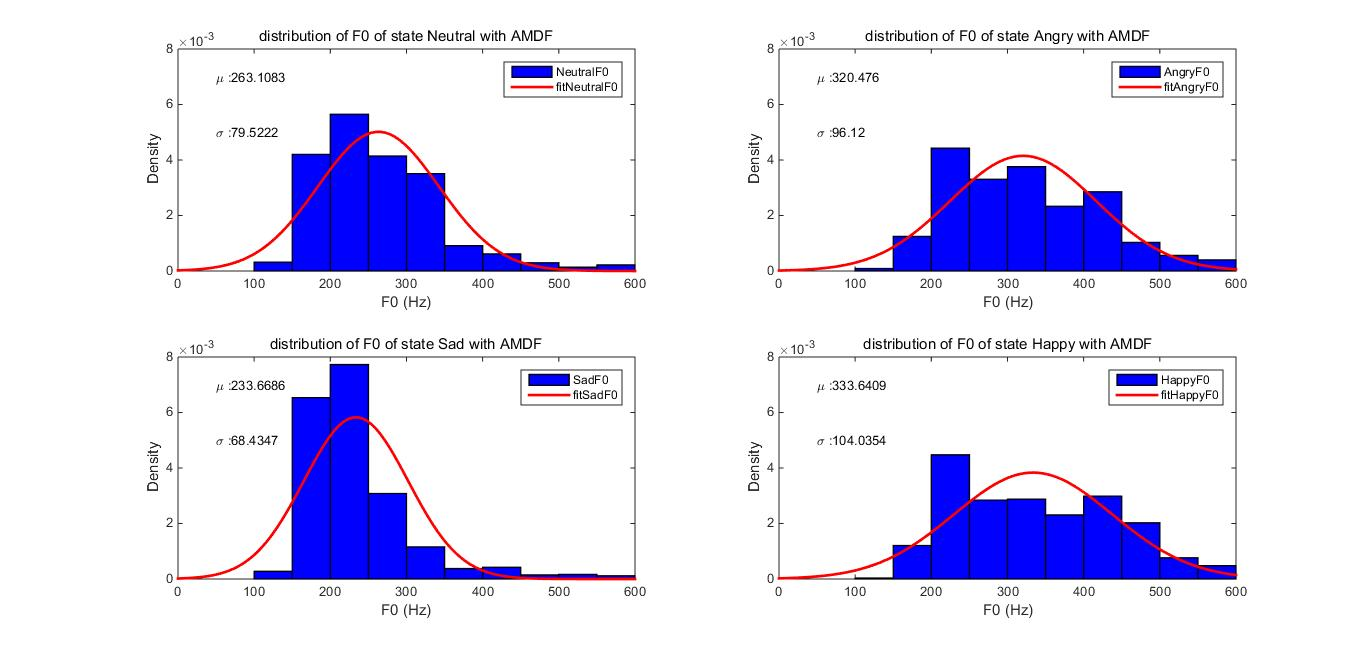
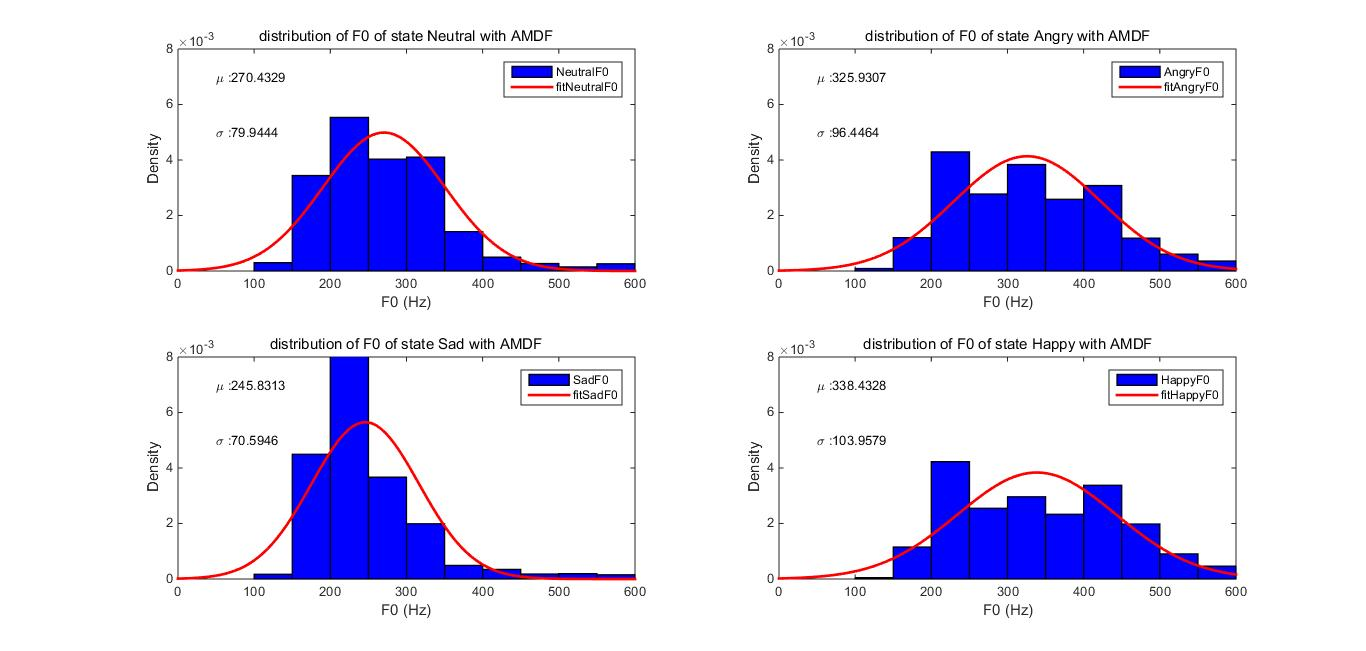
fix crosszero bug, test on the entire testset

diff --git a/W_AMDF1.m b/W_AMDF1.m
@@ -123,7 +123,11 @@ for key=1:key1-1
         num=num+1;
     end
     while(~(crosszero(num-1)>crosszero(num)&&crosszero(num)<crosszero(num+1)))
-        num=num+1;
+        if num + 1 < length(crosszero)
+            num=num+1;
+        else
+            break;
+        end
     end
     Flag(key)=num;
 end

diff --git a/selfCorrelation.m b/selfCorrelation.m
@@ -123,7 +123,11 @@ for key=1:key1-1
         num=num+1;
     end
     while(~(crosszero(num-1)>crosszero(num)&&crosszero(num)<crosszero(num+1)))
-        num=num+1;
+        if num + 1 < length(crosszero)
+            num=num+1;
+        else
+            break;
+        end
     end
     Flag(key)=num;
 end

diff --git a/testSelfCorrelation.m b/testSelfCorrelation.m
@@ -18,7 +18,7 @@ selfCorrelationNeutralBase_freq = [];
 selfCorrelationAngryBase_freq = [];
 selfCorrelationHappyBase_freq = [];
 
-for k = 201:230
+for k = 201:250
     % Sad
     fileSadTemp = strcat(filePathSad, num2str(k), '.wav');
     [stream, fs] = audioread(fileSadTemp);

diff --git a/testAMDF.m b/testAMDF.m
@@ -18,7 +18,7 @@ amdfNeutralBase_freq = 0;
 amdfAngryBase_freq = 0;
 amdfHappyBase_freq = 0;
 
-for k = 201:230
+for k = 201:250
     % Sad
     fileSadTemp = strcat(filePathSad, num2str(k), '.wav');
     [stream, fs] = audioread(fileSadTemp);
